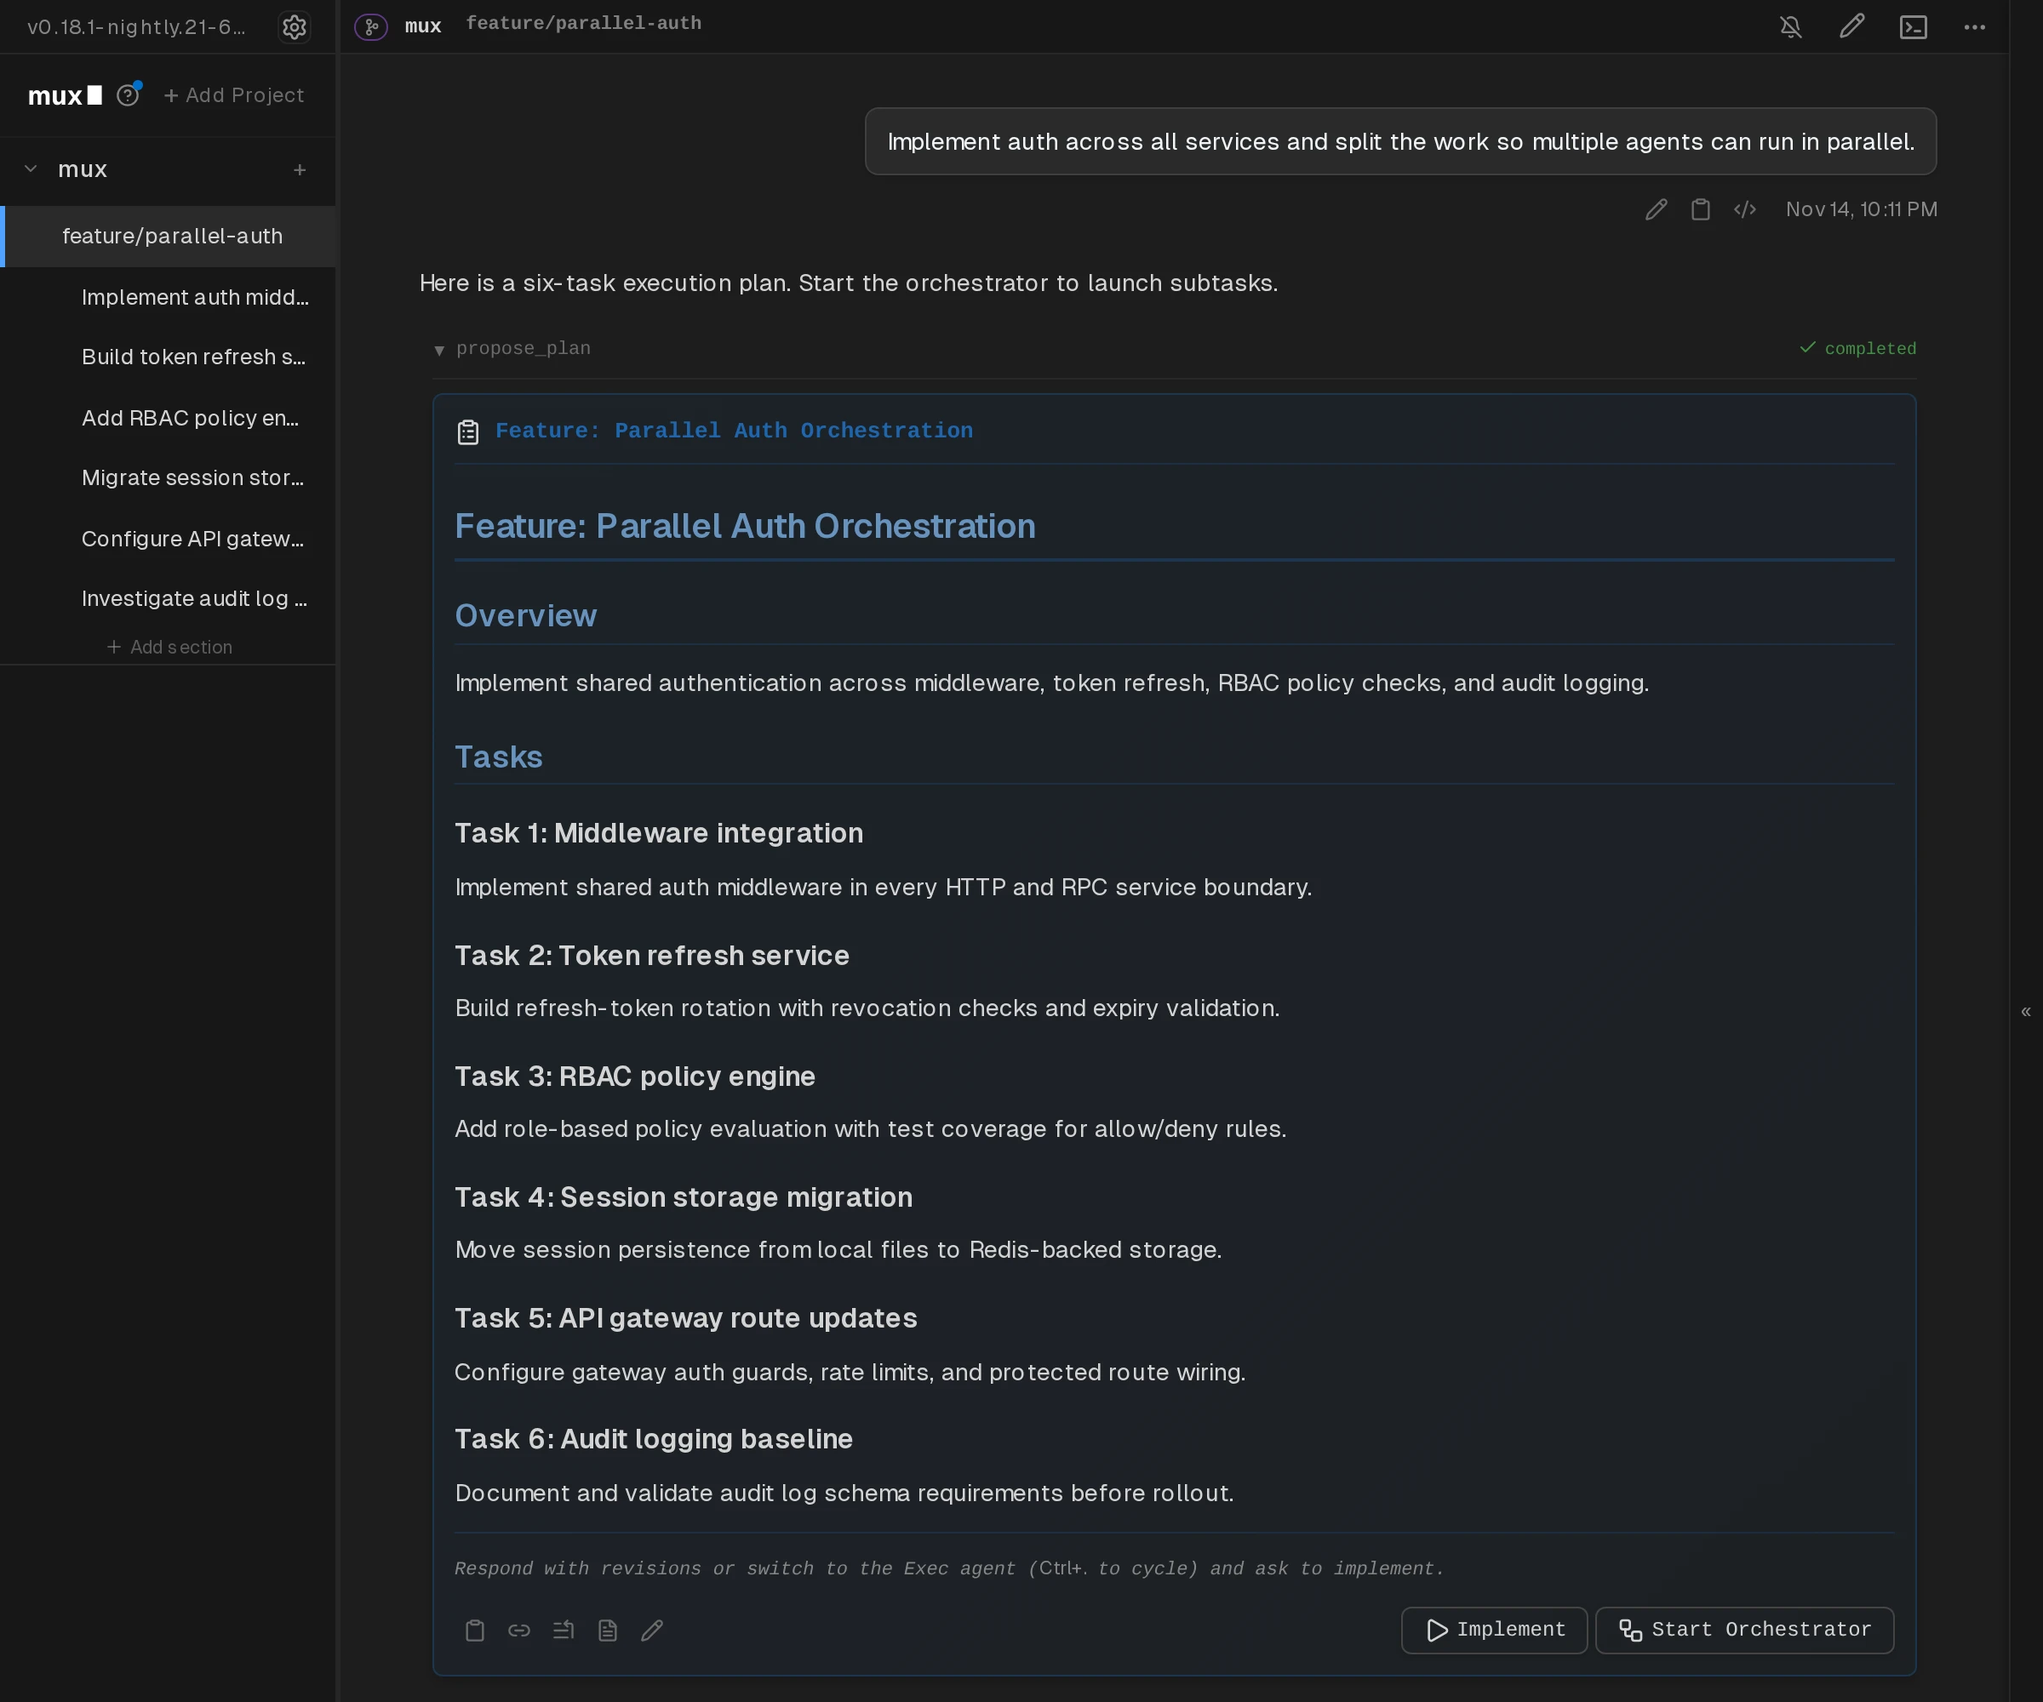
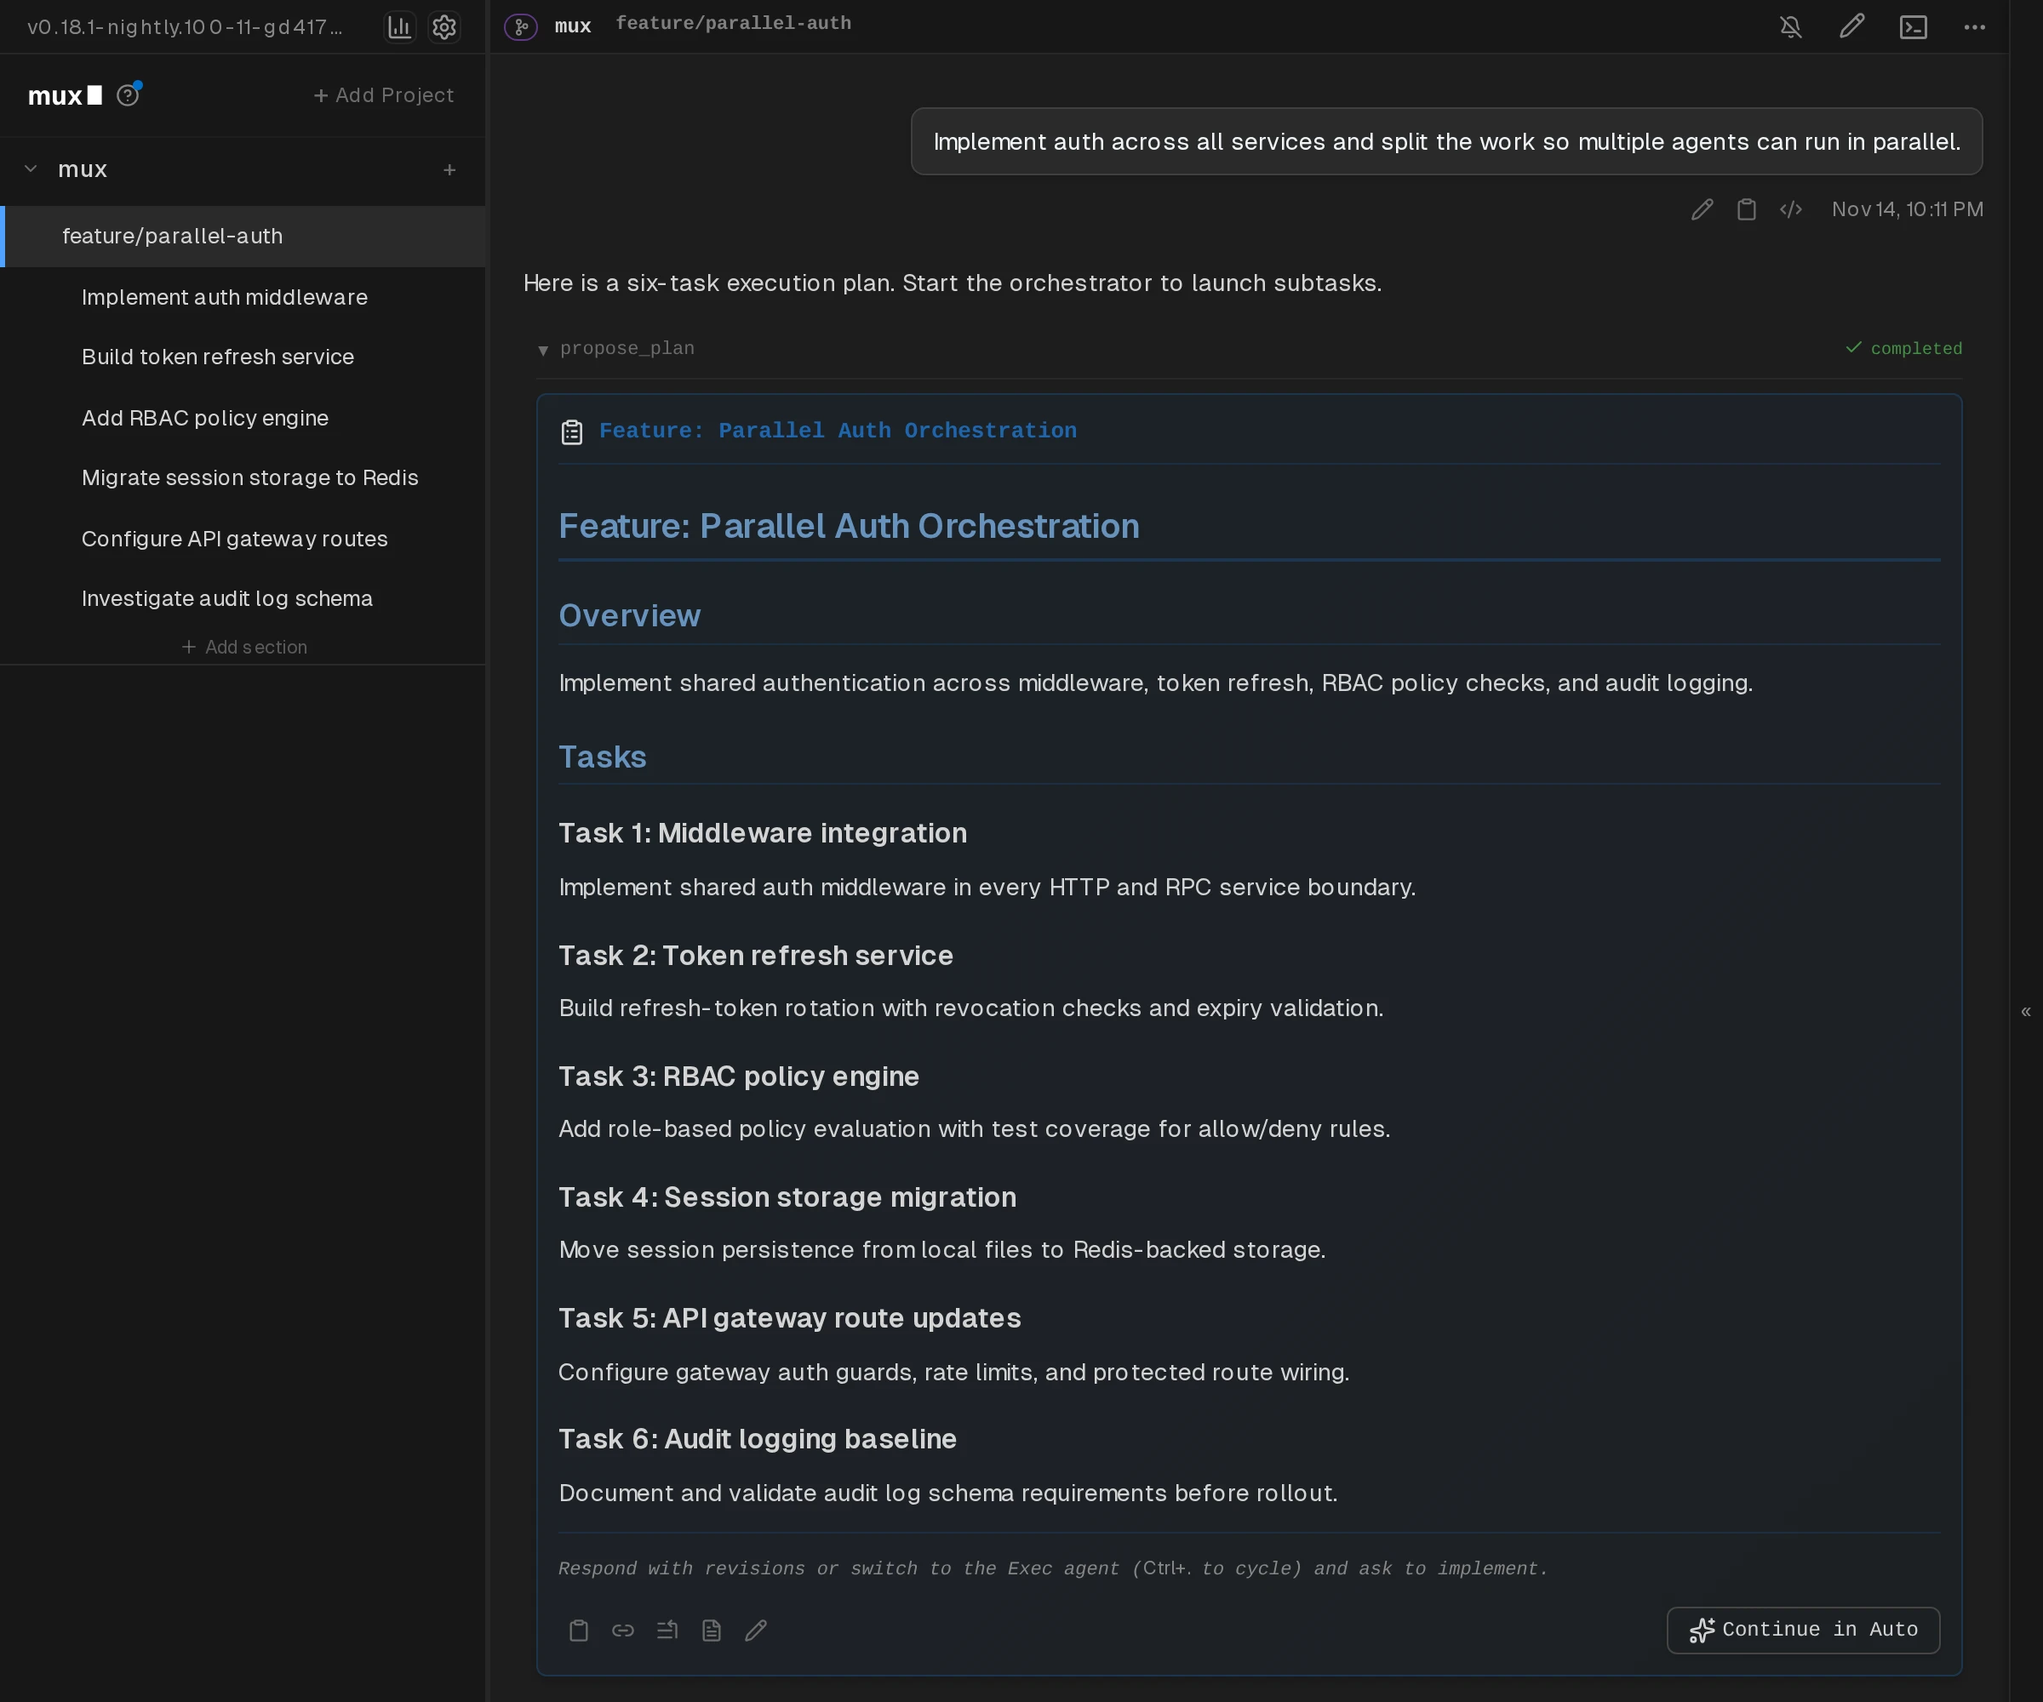
🤖 feat: add 'Continue in Auto' button to plan proposal actions (#2625)
## Summary

Adds a **Continue in Auto** button to the plan proposal toolbar and
makes button visibility context-aware:

- **Auto mode** → only "Continue in Auto" (Sparkles icon)
- **Any other mode** → only "Implement" + "Start Orchestrator"

Also adds a `ProposePlanInPlanMode` Storybook story to demonstrate the
non-auto button layout.

## Background

The plan proposal UI previously offered two fixed actions: **Implement**
(→ exec) and **Start Orchestrator** (→ orchestrator). Users in Auto mode
had no direct way to accept a plan and let the auto agent route to the
best executor. Conversely, showing all three buttons unconditionally
added clutter.

## Implementation

### Button logic (`ProposePlanToolCall.tsx`)

- **`useAgent`** imported from `AgentContext` to read `currentAgentId`
- **`isAutoMode`** derived boolean gates which buttons are created
- **`handleContinueInAuto`** handler — mirrors `handleImplement` pattern
(config read → optional chat-history replacement → resolve agent
settings for `"auto"` → send "Implement the plan")
- **`autoButton`** ButtonConfig only created when `isAutoMode`;
`implementButton`/`orchestratorButton` only when `!isAutoMode`
- Desktop: full `Tooltip` + `Button variant="outline"` in wide-screen
row
- Mobile: icon-only `IconActionButton` in narrow-screen row
- Mutual exclusion: all buttons disable each other during any in-flight
action

### Storybook (`App.chat.stories.tsx`)
[…]

diff --git a/src/browser/components/tools/ProposePlanToolCall.tsx b/src/browser/components/tools/ProposePlanToolCall.tsx
@@ -24,6 +24,7 @@ import { createMuxMessage } from "@/common/types/message";
 import { useCopyToClipboard } from "@/browser/hooks/useCopyToClipboard";
 import { cn } from "@/common/lib/utils";
 import { useAPI } from "@/browser/contexts/API";
+import { useAgent } from "@/browser/contexts/AgentContext";
 import { useOpenInEditor } from "@/browser/hooks/useOpenInEditor";
 import { useOptionalWorkspaceContext } from "@/browser/contexts/WorkspaceContext";
 import { usePopoverError } from "@/browser/hooks/usePopoverError";
@@ -54,6 +55,7 @@ import {
   ListStart,
   Pencil,
   Play,
+  Sparkles,
   Workflow,
   X,
 } from "lucide-react";
@@ -151,10 +153,12 @@ export const ProposePlanToolCall: React.FC<ProposePlanToolCallProps> = (props) =
   const [showRaw, setShowRaw] = useState(false);
   const [isStartingOrchestrator, setIsStartingOrchestrator] = useState(false);
   const [isImplementing, setIsImplementing] = useState(false);
+  const [isContinuingInAuto, setIsContinuingInAuto] = useState(false);
   const [implementReplacesChatHistory, setImplementReplacesChatHistory] = useState(false);
 
-  // On small screens, render the primary plan actions (Implement / Start Orchestrator)
-  // as shortcut icons alongside the other action buttons to avoid right-side overflow.
+  // On small screens, render the primary plan actions (Implement / Start Orchestrator /
+  // Continue in Auto) as shortcut icons alongside the other action buttons to avoid
+  // right-side overflow.
   const [isNarrowScreen, setIsNarrowScreen] = useState(() => {
     if (typeof window === "undefined") return false;
     return window.innerWidth <= 768;
@@ -162,8 +166,11 @@ export const ProposePlanToolCall: React.FC<ProposePlanToolCallProps> = (props) =
 
   const isStartingOrchestratorRef = useRef(false);
   const isImplementingRef = useRef(false);
+  const isContinuingInAutoRef = useRef(false);
   const isMountedRef = useRef(true);
   const { api } = useAPI();
+  const { agentId: currentAgentId } = useAgent();
+  const isAutoMode = currentAgentId === "auto";
   const openInEditor = useOpenInEditor();
   const workspaceContext = useOptionalWorkspaceContext();
   const editorError = usePopoverError();
@@ -379,7 +386,7 @@ export const ProposePlanToolCall: React.FC<ProposePlanToolCallProps> = (props) =
   // uses the target agent defaults instead of stale planning-mode preferences.
   const resolveAndPersistTargetAgentSettings = (args: {
     workspaceId: string;
-    targetAgentId: "exec" | "orchestrator";
+    targetAgentId: "auto" | "exec" | "orchestrator";
   }): { resolvedModel: string; resolvedThinking: ThinkingLevel } => {
     const modelKey = getModelKey(args.workspaceId);
     const thinkingKey = getThinkingLevelKey(args.workspaceId);
@@ -525,6 +532,60 @@ export const ProposePlanToolCall: React.FC<ProposePlanToolCallProps> = (props) =
       }
     }
   };
+  const handleContinueInAuto = async () => {
+    if (!workspaceId || !api) return;
+    if (isContinuingInAutoRef.current) return;
+
+    isContinuingInAutoRef.current = true;
+    if (isMountedRef.current) {
+      setIsContinuingInAuto(true);
+    }
+
+    try {
+      let shouldReplaceChatHistory = false;
+
+      try {
+        const cfg = await api.config.getConfig();
+        shouldReplaceChatHistory =
+          cfg.taskSettings.proposePlanImplementReplacesChatHistory ?? false;
+      } catch {
+        // Ignore config read errors (we'll default to old behavior).
+      }
+
+      if (shouldReplaceChatHistory) {
+        await replaceChatHistoryWithPlan({
+          idPrefix: "continue-auto",
+          errorContext: "Failed to replace chat history before continuing in auto:",
+        });
+      }
+
+      const targetAgentId = "auto";
+      const { resolvedModel, resolvedThinking } = resolveAndPersistTargetAgentSettings({
+        workspaceId,
+        targetAgentId,
+      });
+      const sendMessageOptions = getSendOptionsFromStorage(workspaceId);
+
+      await api.workspace.sendMessage({
+        workspaceId,
+        message: "Implement the plan",
+        options: {
+          ...sendMessageOptions,
+          agentId: targetAgentId,
+          model: resolvedModel,
+          thinkingLevel: resolvedThinking,
+        },
+      });
+    } catch {
+      // Best-effort: user can retry manually if sending fails.
+    } finally {
+      isContinuingInAutoRef.current = false;
+      if (isMountedRef.current) {
+        setIsContinuingInAuto(false);
+      }
+    }
+  };
+
   // Copy to clipboard with feedback
   const { copied, copyToClipboard } = useCopyToClipboard();
 
@@ -588,29 +649,44 @@ export const ProposePlanToolCall: React.FC<ProposePlanToolCallProps> = (props) =
     status === "completed" && !errorMessage && isLatest && !isEphemeralPreview && workspaceId
   );
 
-  const implementButton: ButtonConfig | null = shouldShowPrimaryActions
-    ? {
-        label: "Implement",
-        onClick: () => void handleImplement(),
-        disabled: !api || isImplementing || isStartingOrchestrator,
-        icon: <Play className="size-4" />,
-        tooltip: implementReplacesChatHistory
-          ? "Replace chat history with this plan, switch to Exec, and start implementing"
-          : "Switch to Exec and start implementing",
-      }
-    : null;
+  const implementButton: ButtonConfig | null =
+    shouldShowPrimaryActions && !isAutoMode
+      ? {
+          label: "Implement",
+          onClick: () => void handleImplement(),
+          disabled: !api || isImplementing || isStartingOrchestrator || isContinuingInAuto,
+          icon: <Play className="size-4" />,
+          tooltip: implementReplacesChatHistory
+            ? "Replace chat history with this plan, switch to Exec, and start implementing"
+            : "Switch to Exec and start implementing",
+        }
+      : null;
 
-  const orchestratorButton: ButtonConfig | null = shouldShowPrimaryActions
-    ? {
-        label: "Start Orchestrator",
-        onClick: () => void handleStartOrchestrator(),
-        disabled: !api || isStartingOrchestrator || isImplementing,
-        icon: <Workflow className="size-4" />,
-        tooltip: implementReplacesChatHistory
-          ? "Replace chat history with this plan, switch to Orchestrator, and start delegating"
-          : "Switch to Orchestrator and start delegating",
-      }
-    : null;
+  const orchestratorButton: ButtonConfig | null =
+    shouldShowPrimaryActions && !isAutoMode
+      ? {
+          label: "Start Orchestrator",
+          onClick: () => void handleStartOrchestrator(),
+          disabled: !api || isStartingOrchestrator || isImplementing || isContinuingInAuto,
+          icon: <Workflow className="size-4" />,
+          tooltip: implementReplacesChatHistory
+            ? "Replace chat history with this plan, switch to Orchestrator, and start delegating"
+            : "Switch to Orchestrator and start delegating",
+        }
+      : null;
+
+  const autoButton: ButtonConfig | null =
+    shouldShowPrimaryActions && isAutoMode
+      ? {
+          label: "Continue in Auto",
+          onClick: () => void handleContinueInAuto(),
+          disabled: !api || isContinuingInAuto || isImplementing || isStartingOrchestrator,
+          icon: <Sparkles className="size-4" />,
+          tooltip: implementReplacesChatHistory
+            ? "Replace chat history with this plan, switch to Auto, and let it decide the executor"
+            : "Switch to Auto and let it decide the executor",
+        }
+      : null;
 
   // Start Here button: only for tool calls, not ephemeral previews
   if (!isEphemeralPreview && workspaceId) {
@@ -696,10 +772,11 @@ export const ProposePlanToolCall: React.FC<ProposePlanToolCallProps> = (props) =
             <IconActionButton key={index} button={button} />
           ))}
 
-          {isNarrowScreen && (implementButton ?? orchestratorButton) && (
+          {isNarrowScreen && (implementButton ?? orchestratorButton ?? autoButton) && (
             <>
               {implementButton && <IconActionButton button={implementButton} />}
               {orchestratorButton && <IconActionButton button={orchestratorButton} />}
+              {autoButton && <IconActionButton button={autoButton} />}
             </>
           )}
 
@@ -711,7 +788,7 @@ export const ProposePlanToolCall: React.FC<ProposePlanToolCallProps> = (props) =
           )}
         </div>
 
-        {!isNarrowScreen && (implementButton ?? orchestratorButton) && (
+        {!isNarrowScreen && (implementButton ?? orchestratorButton ?? autoButton) && (
           <div className="ml-auto flex items-center gap-1">
             {implementButton && (
               <Tooltip>
@@ -751,6 +828,27 @@ export const ProposePlanToolCall: React.FC<ProposePlanToolCallProps> = (props) =
                 </TooltipTrigger>
                 <TooltipContent align="center">
                   {orchestratorButton.tooltip ?? orchestratorButton.label}
+                </TooltipContent>
+              </Tooltip>
+            )}
+
+            {autoButton && (
+              <Tooltip>
+                <TooltipTrigger asChild>
+                  <Button
+                    type="button"
+                    variant="outline"
+                    size="sm"
+                    className="h-7 gap-1"
+                    onClick={autoButton.onClick}
+                    disabled={autoButton.disabled}
+                  >
+                    {autoButton.icon}
+                    <span className="leading-none">{autoButton.label}</span>
+                  </Button>
+                </TooltipTrigger>
+                <TooltipContent align="center">
+                  {autoButton.tooltip ?? autoButton.label}
                 </TooltipContent>
               </Tooltip>
             )}

diff --git a/src/browser/stories/App.chat.stories.tsx b/src/browser/stories/App.chat.stories.tsx
@@ -1802,6 +1802,82 @@ graph TD
 };
 
 /**
+ * Same as ProposePlan but with agent mode set to "plan".
+ * Shows Implement + Start Orchestrator buttons (no Continue in Auto).
+ */
+export const ProposePlanInPlanMode: AppStory = {
+  render: () => (
+    <AppWithMocks
+      setup={() => {
+        window.localStorage.setItem("agentId:ws-plan-mode", JSON.stringify("plan"));
+
+        return setupSimpleChatStory({
+          workspaceId: "ws-plan-mode",
+          messages: [
+            createUserMessage("msg-1", "Help me refactor the authentication module", {
+              historySequence: 1,
+              timestamp: STABLE_TIMESTAMP - 300000,
+            }),
+            createAssistantMessage(
+              "msg-2",
+              "I'll create a plan for refactoring the authentication module.",
+              {
+                historySequence: 2,
+                timestamp: STABLE_TIMESTAMP - 290000,
+                toolCalls: [
+                  createProposePlanTool(
+                    "call-plan-1",
+                    `# Authentication Module Refactor
+
+## Overview
+
+Refactor the authentication system to improve security and maintainability.
+
+## Tasks
+
+1. **Extract JWT utilities** - Move token generation and validation to dedicated module
+2. **Add refresh token support** - Implement secure refresh token rotation
+3. **Improve password hashing** - Upgrade to Argon2id with proper salt rounds
+4. **Add rate limiting** - Implement per-IP and per-user rate limits
+5. **Session management** - Add Redis-backed session store
+
+## Implementation Order
+
+\`\`\`mermaid
+graph TD
+    A[Extract JWT utils] --> B[Add refresh tokens]
+    B --> C[Improve hashing]
+    C --> D[Add rate limiting]
+    D --> E[Session management]
+\`\`\`
+
+## Success Criteria
+
+- All existing tests pass
+- New tests for refresh token flow
+- Security audit passes
+- Performance benchmarks maintained`
+                  ),
+                ],
+              }
+            ),
+          ],
+        });
+      }}
+    />
+  ),
+  parameters: {
+    docs: {
+      description: {
+        story:
+          'Same as ProposePlan but with agent mode set to "plan". ' +
+          "Shows Implement and Start Orchestrator buttons instead of Continue in Auto.",
+      },
+    },
+  },
+};
+
+/**
  * Captures the handoff pause after a plan is presented and before the executor stream starts.
  *
  * This reproduces the visual state where the sidebar shows "Deciding execution strategy…"
